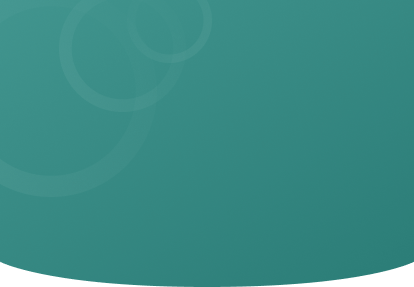
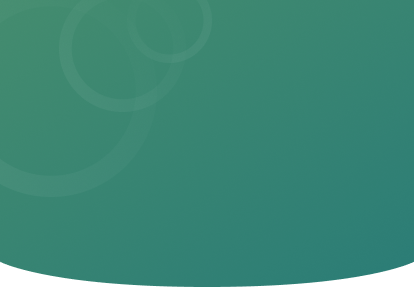
Atualização.

Changed region(s): [[0.0, 0.0, 0.5217, 0.4739]]

diff --git a/lib/ui/homepage/page/home_page.dart b/lib/ui/homepage/page/home_page.dart
@@ -1,41 +1,66 @@
+import 'package:badges/badges.dart';
 import 'package:flutter/material.dart';
 import 'package:uifinanceiro/utils/extensions/context_extension.dart';
 
 import '../../../utils/styles/colors_app.dart';
 
 class HomePage extends StatelessWidget {
+  const HomePage({Key? key}) : super(key: key);
 
-  const HomePage({ Key? key }) : super(key: key);
-
-   @override
-   Widget build(BuildContext context) {
-       return Scaffold(
-           body: SafeArea(
-             child: Stack(
-               children: [
-                 SizedBox(
-                  child: Image.asset('assets/images/fundohomepage.png'),
-                 ),
-                 Container(
-                    padding: EdgeInsets.only(top: 150, left: 20, right: 20, bottom: context.height * .5),
-                    child: Container(
-                    decoration: BoxDecoration(
-                      color: ColorsApp.instance.greencard,
-                      borderRadius: BorderRadius.circular(30),
-                      boxShadow: <BoxShadow>[
-                        BoxShadow(
-                          color: ColorsApp.instance.greenlinear.withOpacity(0.2),
-                          spreadRadius: 2,
-                          blurRadius: 3,
-                          offset: const Offset(2, 3),
-                        )
-                      ]
-                    ),
-                    ),
-                 ),
-              ]
-             ),
-           ),
-       );
+  @override
+  Widget build(BuildContext context) {
+    return Scaffold(
+      body: SafeArea(
+        child: Stack(children: [
+          SizedBox(
+            child: Image.asset('assets/images/fundohomepage.png'),
+          ),
+          Container(
+            padding: EdgeInsets.only(
+                top: 150, left: 20, right: 20, bottom: context.height * .5),
+            child: Container(
+              decoration: BoxDecoration(
+                  color: ColorsApp.instance.greencard,
+                  borderRadius: BorderRadius.circular(30),
+                  boxShadow: <BoxShadow>[
+                    BoxShadow(
+                      color: ColorsApp.instance.greenlinear.withOpacity(0.2),
+                      spreadRadius: 2,
+                      blurRadius: 3,
+                      offset: const Offset(2, 3),
+                    )
+                  ]),
+            ),
+          ),
+          Container(
+            padding: EdgeInsets.only(
+                top: 75, left: 322, right: 25, bottom: context.height * .80),
+            child: Container(
+              padding: EdgeInsets.all(10),
+              decoration: BoxDecoration(
+                  color: ColorsApp.instance.greenfundo,
+                  borderRadius: BorderRadius.circular(25),
+                  boxShadow: <BoxShadow>[
+                    BoxShadow(
+                      color: ColorsApp.instance.greenfundo.withOpacity(0.3),
+                      spreadRadius: 2,
+                      blurRadius: 3,
+                      offset: const Offset(2, 3),
+                    )
+                  ]),
+              child: Badge(
+                position: BadgePosition.topEnd(top: -2, end: 1),
+                shape: BadgeShape.circle,
+                badgeColor: Colors.orange,
+                child: Image.asset(
+                  'assets/images/bell.png',
+                  color: Colors.white,
+                ),
+              ),
+            ),
+          ),
+        ]),
+      ),
+    );
   }
 }

diff --git a/lib/utils/styles/colors_app.dart b/lib/utils/styles/colors_app.dart
@@ -20,6 +20,7 @@ class ColorsApp {
   Color get greenlinear => const Color(0xFF69AEA9);
   Color get greenlinear2 => const Color(0xFF3F8782);
   Color get greencard => const Color(0xFF2F7E79); 
+  Color get greenfundo => const Color(0xFF408A7C);
 }
 
 extension ColorsAppExtensions on BuildContext {
